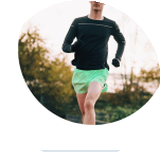
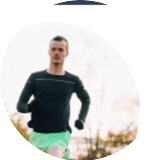
fix: re-crop Ben testimonial photo so head is fully visible (RunDot email 06/Day 8)

diff --git a/emails/tridot-trial-nurture/rundot/email-09-day8.html b/emails/tridot-trial-nurture/rundot/email-09-day8.html
@@ -71,7 +71,7 @@
     <div style="display:table;width:100%;margin:24px 0 8px;border-collapse:collapse;">
       <div style="display:table-row;">
         <div style="display:table-cell;vertical-align:middle;width:90px;padding-right:20px;">
-          <img src="assets/testimonial-ben.png" alt="Ben, RunDot Athlete" width="80" height="80" style="border-radius:50%;display:block;object-fit:cover;object-position:center top;" />
+          <img src="assets/testimonial-ben.png" alt="Ben, RunDot Athlete" width="80" height="80" style="border-radius:50%;display:block;" />
         </div>
         <div style="display:table-cell;vertical-align:middle;">
           <p style="margin:0;font-size:16px;color:#1a8a3c;font-style:italic;line-height:1.5;">"RunDot takes away the guesswork. No more overdoing it - just the right amount, every time."</p>
